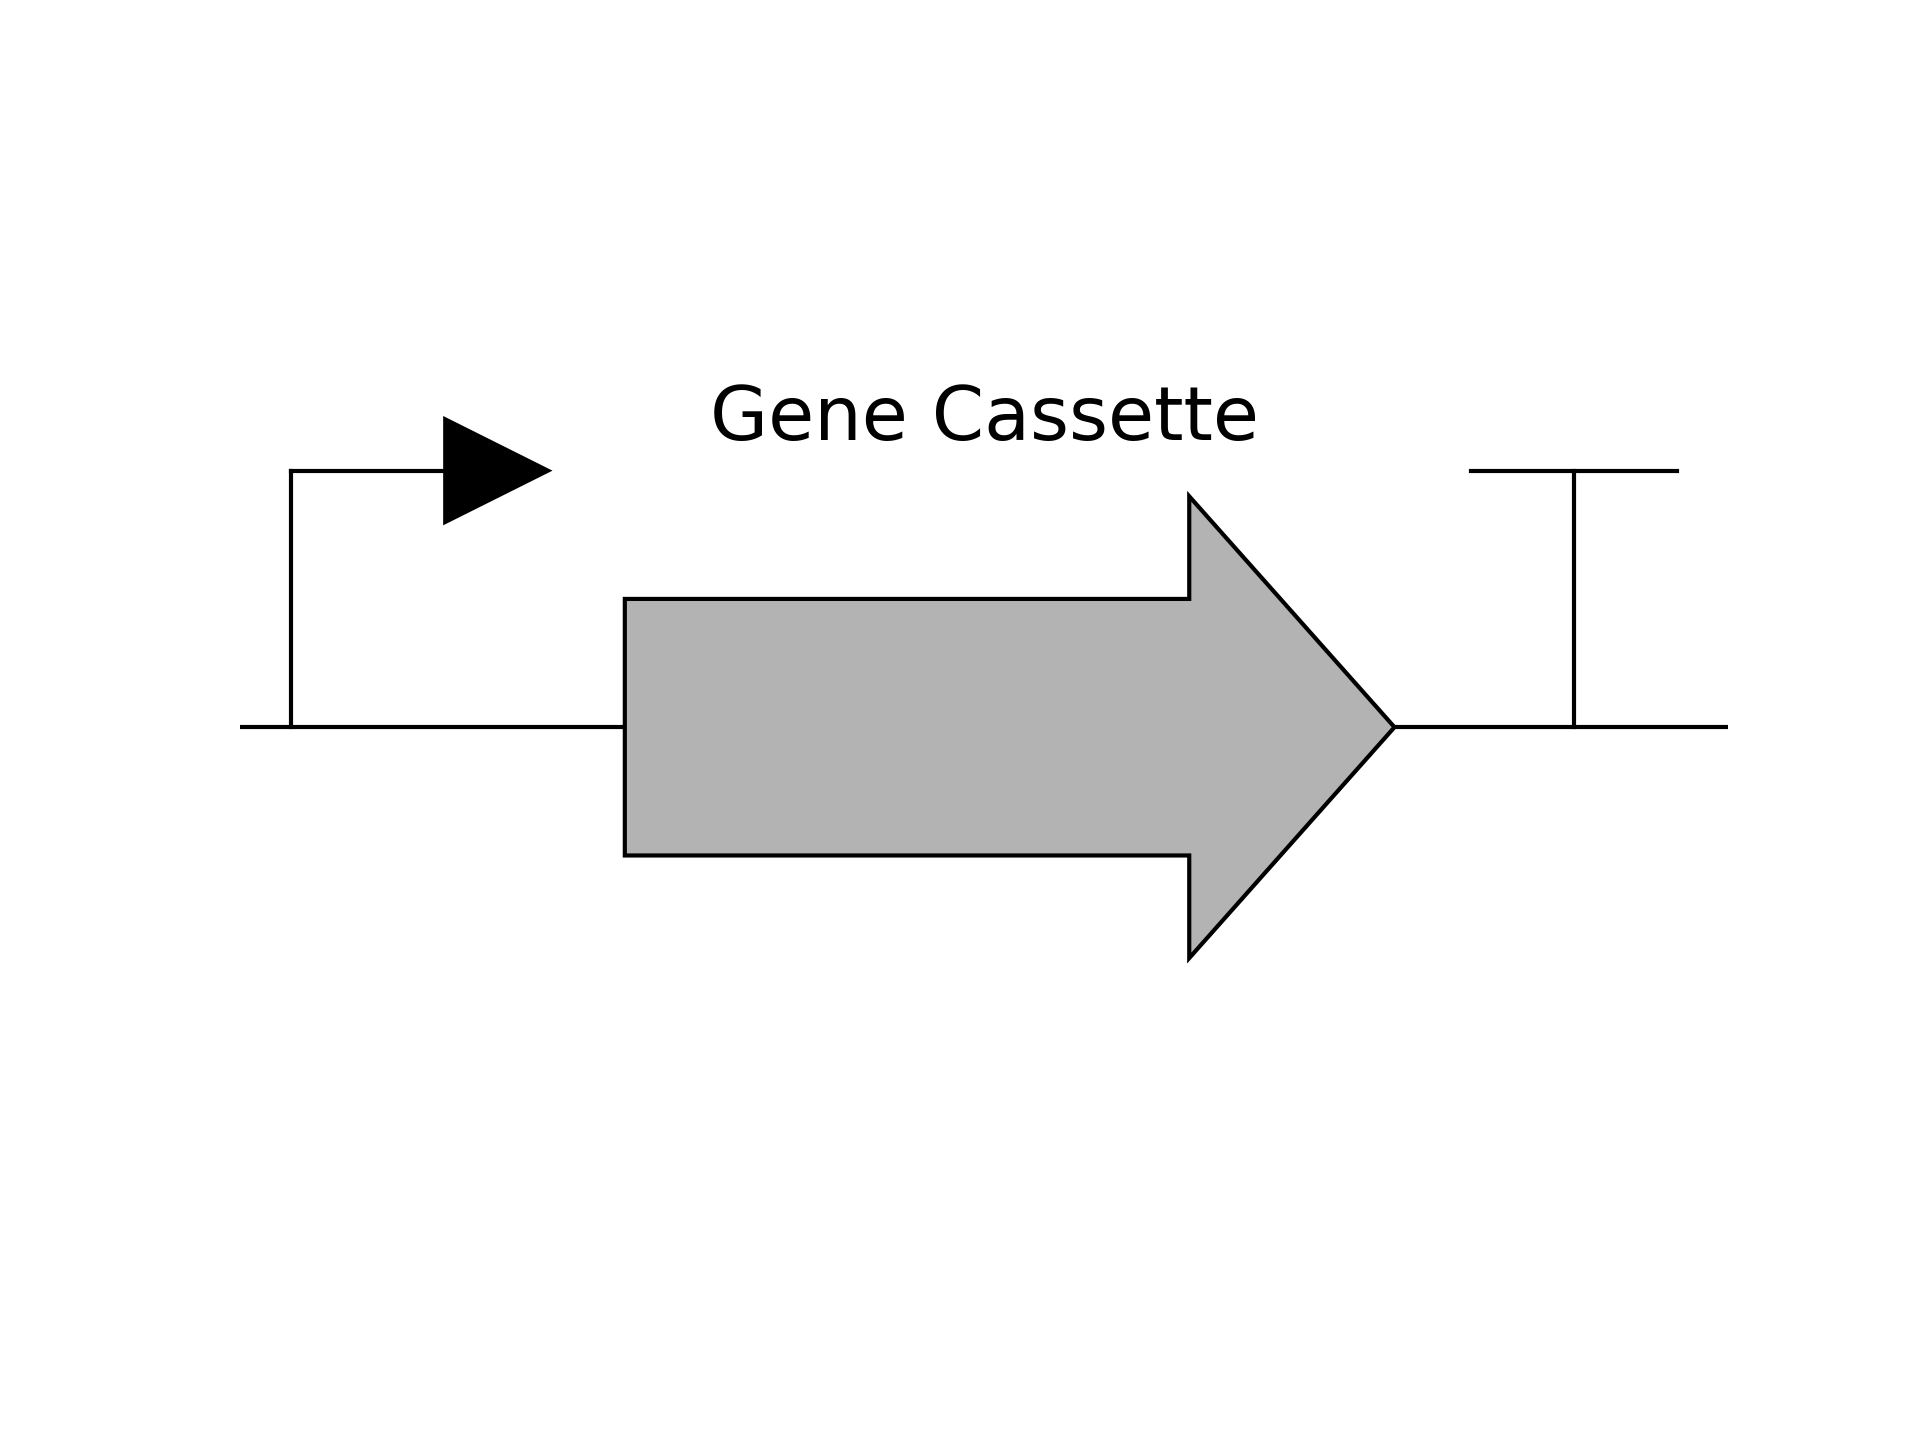
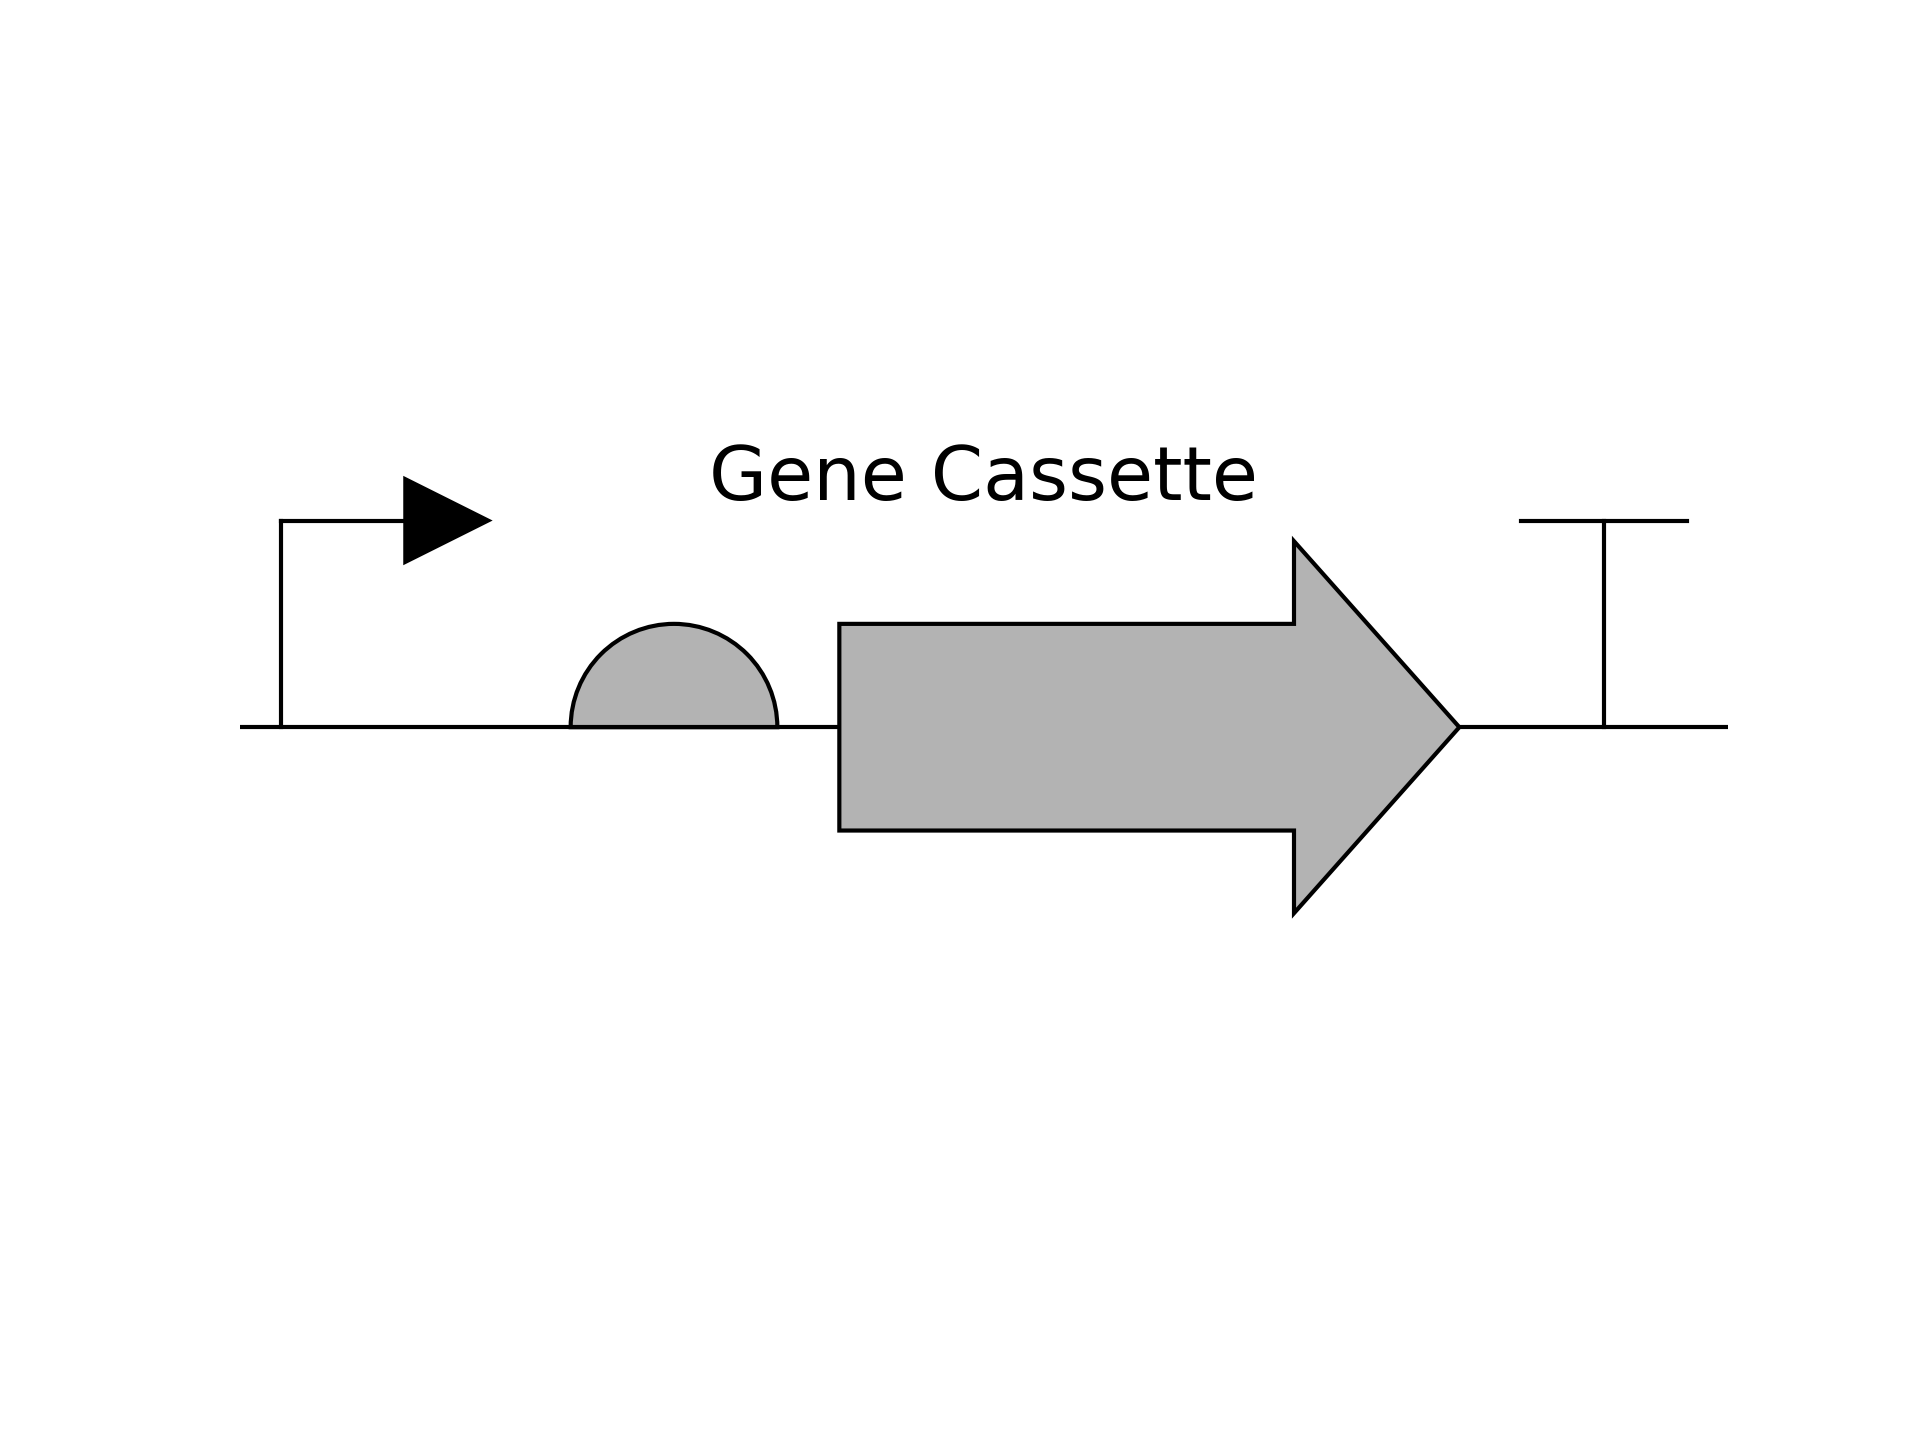
Add ribosome entry side symbol to make the Gene Cassete Example Complete

diff --git a/dnaplotlib/sbol/sbolplotlib.py b/dnaplotlib/sbol/sbolplotlib.py
@@ -32,6 +32,7 @@ class SBOLRenderer(dpl.DNARenderer):
             "SO:0000316": "CDS",
             "SO:0000141": "Terminator",
             "SO:0000552": "RBS",
+            "SO:0000139": "RBS",
             "SO:0001953": "Scar",
             # No SO Term : 'Spacer',
             # No SO Term : 'EmptySpace',
@@ -92,6 +93,8 @@ class SBOLRenderer(dpl.DNARenderer):
                 part = {}
                 part["type"] = self.SO_terms()[SO_term]
                 name = subcomponent.name
+                # SBOL standard prescribes using the name of the subcomponent for purpose of display
+                # the display_id is used if the name is not set
                 if not name:
                     name = subcomponent.display_id
                 part["name"] = name
